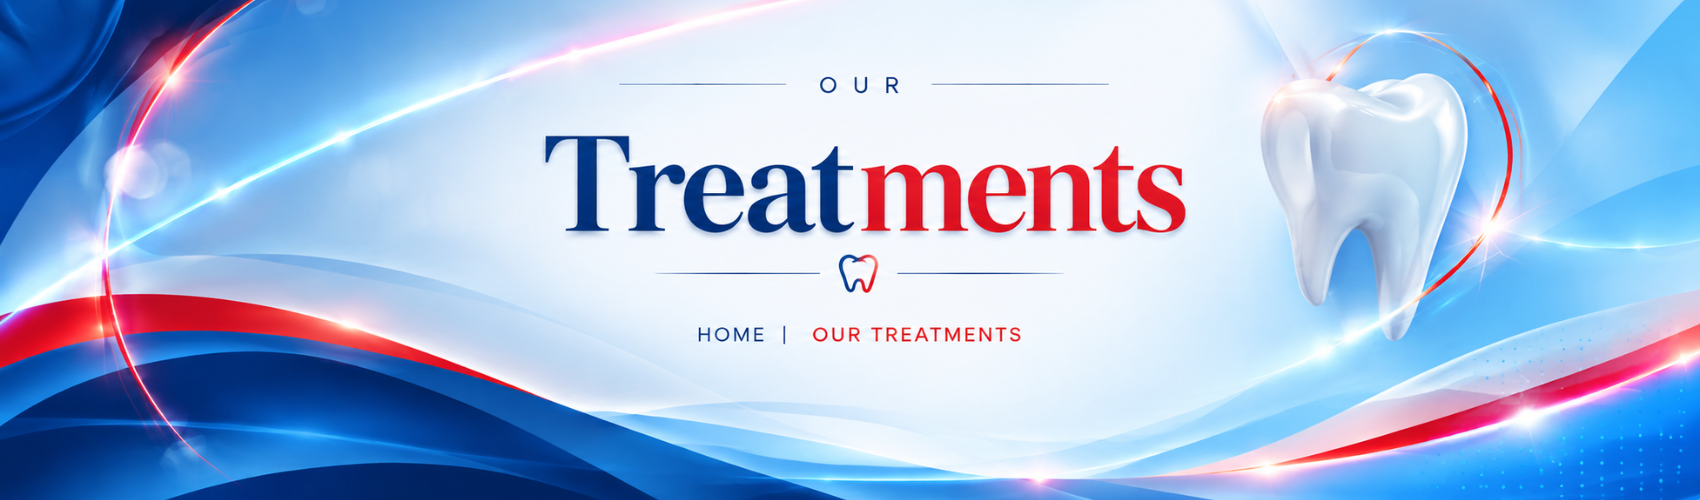
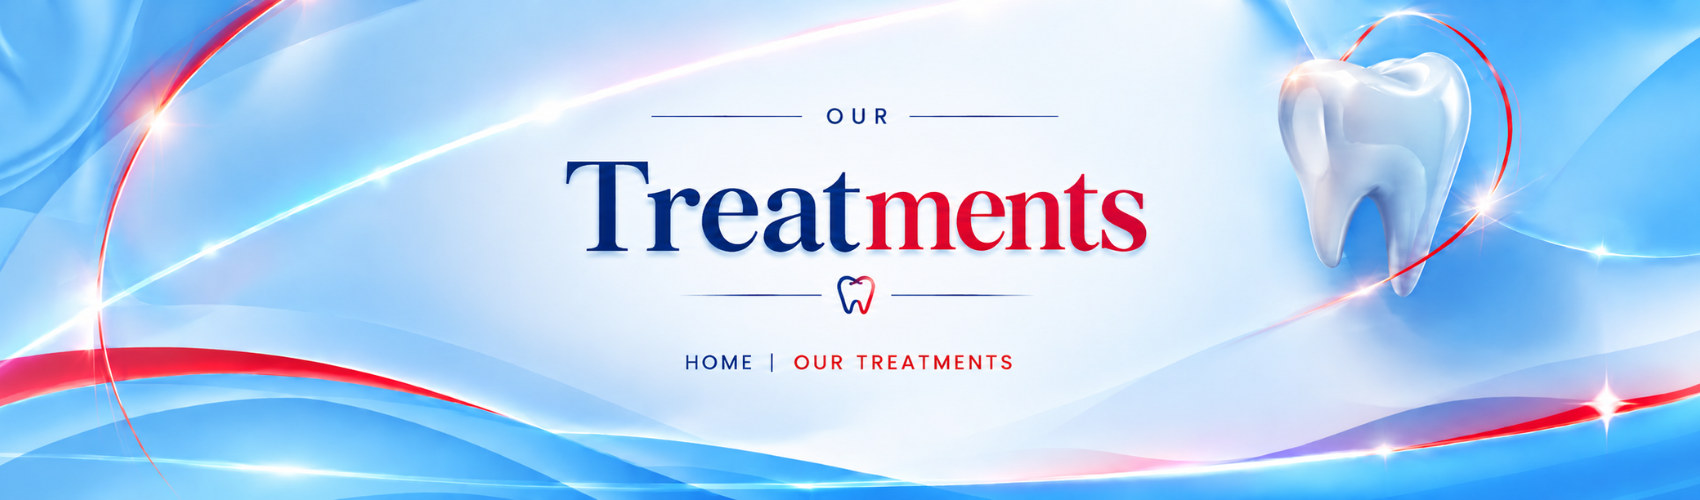
Added changes in home page

diff --git a/css/New_stylings.css b/css/New_stylings.css
@@ -4610,8 +4610,8 @@
 
 
 .index_second_section_treatment_image img {
-    width: 84%;
-    height: 84%;
+    width: 65%;
+    height: 65%;
 
     display: block;
 
@@ -6072,13 +6072,13 @@
 
     color: #152a68;
 
-    background:
+    /* background:
         linear-gradient(
             115deg,
             rgba(255,255,255,.93),
             rgba(255,255,255,.60) 68%,
             transparent 100%
-        );
+        ); */
 }
 
 

diff --git a/Home.php b/Home.php
@@ -677,7 +677,7 @@
                 <div class="index_first_section_visual_card">
 
 
-                    <img src="assets/img/index/index-first-about.jpg"
+                    <img src="./images1/home/what_1.jpeg"
                          alt="Dental Treatment"
                          class="index_first_section_main_image">
 
@@ -968,13 +968,13 @@
 
                         <div class="index_third_section_image_area">
 
-                            <img src="assets/img/index/doctor-kalyan.jpg"
+                            <img src="images1/kalyan.png"
                                  alt="Dr. Kalyan Chakravarty"
                                  class="index_third_section_doctor_image">
 
 
                             <!-- LEFT QUOTE -->
-                            <div class="index_third_section_image_quote">
+                            <!-- <div class="index_third_section_image_quote">
 
                                 <div class="index_third_section_quote_mark">
                                     “
@@ -988,10 +988,10 @@
                                     Smiles
                                 </p>
 
-                            </div>
+                            </div> -->
 
 
-                            <div class="index_third_section_image_curve"></div>
+                            <!-- <div class="index_third_section_image_curve"></div> -->
 
                         </div>
 
@@ -1090,12 +1090,12 @@
 
                         <div class="index_third_section_image_area">
 
-                            <img src="assets/img/index/doctor-madhuri.jpg"
+                            <img src="images1/madhuri.png"
                                  alt="Dr. T. Madhuri"
                                  class="index_third_section_doctor_image">
 
 
-                            <div class="index_third_section_image_quote">
+                            <!-- <div class="index_third_section_image_quote">
 
                                 <div class="index_third_section_quote_mark">
                                     “
@@ -1108,10 +1108,10 @@
                                     Smiles
                                 </p>
 
-                            </div>
+                            </div> -->
 
 
-                            <div class="index_third_section_image_curve"></div>
+                            <!-- <div class="index_third_section_image_curve"></div> -->
 
                         </div>
 
@@ -1208,12 +1208,12 @@
 
                         <div class="index_third_section_image_area">
 
-                            <img src="assets/img/index/doctor-sarath.jpg"
+                            <img src="images1/sarath.png"
                                  alt="Dr. Sarath Chandra"
                                  class="index_third_section_doctor_image">
 
 
-                            <div class="index_third_section_image_quote">
+                            <!-- <div class="index_third_section_image_quote">
 
                                 <div class="index_third_section_quote_mark">
                                     “
@@ -1226,10 +1226,10 @@
                                     Confidence
                                 </p>
 
-                            </div>
+                            </div> -->
 
 
-                            <div class="index_third_section_image_curve"></div>
+                            <!-- <div class="index_third_section_image_curve"></div> -->
 
                         </div>
 
@@ -1810,7 +1810,7 @@
                     <!-- IMAGE -->
                     <div class="index_second_section_treatment_image index_second_section_image_pink">
 
-                        <img src="assets/img/index/dental-implants.png"
+                        <img src="./images1/icons/dental-implant.png"
                              alt="Dental Implants">
 
                     </div>
@@ -1833,7 +1833,7 @@
                         </p>
 
 
-                        <a href="dental-implants.php"
+                        <a href="Dental-Implants-Treatment-In-Vizianagaram.php"
                            class="index_second_section_learn_more">
 
                             <span>
@@ -1876,7 +1876,7 @@
 
                     <div class="index_second_section_treatment_image index_second_section_image_blue">
 
-                        <img src="assets/img/index/root-canal.png"
+                        <img src="./images1/icons/root-canal.png"
                              alt="Root Canal Treatment">
 
                     </div>
@@ -1898,7 +1898,7 @@
                         </p>
 
 
-                        <a href="root-canal.php"
+                        <a href="Rootcanal-Treatment-In-Vizianagaram.php"
                            class="index_second_section_learn_more">
 
                             <span>
@@ -1940,7 +1940,7 @@
 
                     <div class="index_second_section_treatment_image index_second_section_image_pink">
 
-                        <img src="assets/img/index/clear-aligners.png"
+                        <img src="./images1/icons/orthodontic.png"
                              alt="Clear Aligners">
 
                     </div>
@@ -1962,7 +1962,7 @@
                         </p>
 
 
-                        <a href="clear-aligners.php"
+                        <a href="Clear-Aligners-In-Vizianagaram.php"
                            class="index_second_section_learn_more">
 
                             <span>
@@ -2004,7 +2004,7 @@
 
                     <div class="index_second_section_treatment_image index_second_section_image_blue">
 
-                        <img src="assets/img/index/smile-makeover.png"
+                        <img src="./images1/icons/smile.png"
                              alt="Smile Makeover">
 
                     </div>
@@ -2026,7 +2026,7 @@
                         </p>
 
 
-                        <a href="smile-makeover.php"
+                        <a href="Smile-Makeover-Treatment-In-Vizianagaram.php"
                            class="index_second_section_learn_more">
 
                             <span>

diff --git a/Child-Pediatric-Dental-Care-Treatment-In-Vizianagaram.php b/Child-Pediatric-Dental-Care-Treatment-In-Vizianagaram.php
@@ -4,11 +4,11 @@ $meta_description = "Gentle, kid-friendly dental care in Vizianagaram for childr
 include 'header.php';
 ?>
 
-
-<section class="dsdl-hero text-center" style="position: relative; height: 40vh; background-image: url('images1/about-bg.jpg'); background-size: cover; background-position: center; display: flex; align-items: center; justify-content: center;">
+ <img src="images1/services/services_img/child-dental-care-bg.png" alt="Contact Us" class="img-fluid">
+<!-- <section class="dsdl-hero text-center" style="position: relative; height: 40vh; background-image: url('images1/about-bg.jpg'); background-size: cover; background-position: center; display: flex; align-items: center; justify-content: center;">
     <div style="position: absolute; top: 0; left: 0; width: 100%; height: 100%; background: rgba(0, 0, 0, 0.4);"></div>
     <h1 style="position: relative; z-index: 2; color: white; font-size: 2.5rem; font-weight: bold; text-transform: uppercase;">Child Dental Care</h1>
-</section>
+</section> -->
 
 
 <!-- <section class="mt-5 mx-5">
